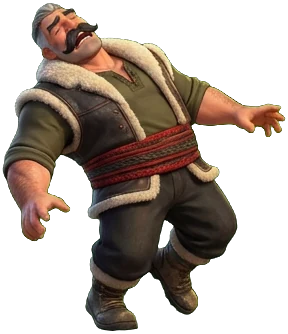
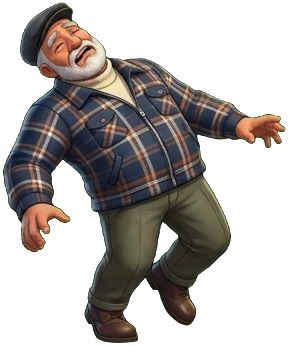
MUSA: Kürt Kemal nach Foto neu gezeichnet (Schiebermütze, Karohemd), Gedenkzeile
Claude-Session: https://claude.ai/code/session_01HmmbUMm2WsFfV26x7CUR19

diff --git a/spiel/musa.html b/spiel/musa.html
@@ -173,7 +173,7 @@ tr:{
  musa:["Çaycuma'nın kahramanı. Mahallede kim zor durumda kalsa ilk koşan odur. Koca yüreği, kocaman yumrukları ve yanından hiç ayrılmayan sevimli pandasıyla meydanı Kara Fırtına'ya karşı korur.","Panda Dalgası blokla durdurulamaz – ve Musa'nın canını 15 doldurur. Bu güç sadece kahramanda var!"],
  cevat:["Ailenin büyüklerinden, herkesin saygı duyduğu Hoca. Sakin görünür ama dua okumaya başladığında meydanı altın bir ışık kaplar. Tecrübesi en büyük silahıdır.","'Sübhanallah! Allahu Ekber!' – ışık küresi rakibi uzun süre sersemletir, kafası döner, yıldızlar uçuşur."],
  dursun:["Timur'un büyük babası, ailenin dev dedesi. Yaşına bakmayın: yere bir vurdu mu bütün Çaycuma sallanır. Yavaştır ama vuruşları en ağır olandır.","Dede Depremi: yerden kayalar fırlatır. Zıplayan rakibe işlemez – ama yerdekini fena sarsar."],
- kemal:["Musa amcanın babası, dağların aslanı. Sert, inatçı ve çok güçlü. Bir kere hızlandı mı önünde kimse duramaz.","Dağ Yumruğu: rakibin üstüne fırtına gibi atılır, tek darbede büyük hasar verir."],
+ kemal:["Namı değer Kürt Kemal – Musa amcanın babası, köyün sevilen büyüğü. Güler yüzlü, tatlı dilli ama dağ gibi güçlü; bir kere hızlandı mı önünde kimse duramaz. Rahmetli Kemal amcanın hatırasına. 🤲","Dağ Yumruğu: rakibin üstüne fırtına gibi atılır, tek darbede büyük hasar verir."],
  mevlut:["Affan ve Abdullah'ın babası. Kafası kel ama demir gibi sert – kafa atışından kimse kaçamaz. Sakin adamdır, sinirlenince dikkat!","Demir Kafa: havaya sıçrayıp kafasıyla rakibe dalar."],
  timur:["Ailenin teknoloji ustası. Yanında uçan robotu Jarvis, kolunda neon ışıklar. Kaba kuvvet yerine aklını kullanır – ve kimsede olmayan bir gücü var.","Jarvis: Zaman Durdur – rakip donar ve maviye kesilir, Timur o sırada lazerle vurur. Bu güç sadece Timur'da var!"],
  nazif:["Çaycuma'nın en usta avcısı. Sadık av köpeği hep yanında, yayı hep hazır. Sabırlıdır, avını kollar ve doğru anda tuzağı kurar.","Av Tuzağı: fırlattığı ağ rakibi yakalar, rakip bir süre kıpırdayamaz."],
@@ -186,7 +186,7 @@ de:{
  musa:["Der Held von Çaycuma. Wenn jemand in Not ist, ist er als Erster da. Mit großem Herz, großen Fäusten und seinem treuen Panda beschützt er den Marktplatz vor Kara Fırtına.","Die Panda-Welle kann nicht geblockt werden – und heilt Musa um 15. Diese Kraft hat nur der Held!"],
  cevat:["Der weise Hoca der Familie, von allen respektiert. Er wirkt ruhig, doch wenn er betet, erfüllt goldenes Licht den Platz. Erfahrung ist seine stärkste Waffe.","'Sübhanallah! Allahu Ekber!' – die Lichtkugel macht den Gegner lange benommen, Sterne kreisen um seinen Kopf."],
  dursun:["Timurs Großvater, der Riesen-Opa der Familie. Lass dich vom Alter nicht täuschen: Schlägt er auf den Boden, bebt ganz Çaycuma. Langsam, aber mit den härtesten Schlägen.","Opa-Beben: schleudert Felsen über den Boden. Trifft keine springenden Gegner – aber alle am Boden."],
- kemal:["Der Vater von Onkel Musa, der Löwe der Berge. Hart, stur und sehr stark. Wenn er einmal Anlauf nimmt, hält ihn niemand auf.","Bergfaust: stürmt wie ein Orkan auf den Gegner zu, riesiger Schaden mit einem Schlag."],
+ kemal:["Genannt Kürt Kemal – der Vater von Onkel Musa, der beliebte Älteste des Dorfes. Immer ein Lächeln im Gesicht, aber stark wie ein Berg; wenn er einmal Anlauf nimmt, hält ihn niemand auf. In liebevoller Erinnerung an Onkel Kemal. 🤲","Bergfaust: stürmt wie ein Orkan auf den Gegner zu, riesiger Schaden mit einem Schlag."],
  mevlut:["Vater von Affan und Abdullah. Glatze, aber hart wie Eisen – seinem Kopfstoß entkommt keiner. Ein ruhiger Mann – aber Vorsicht, wenn er wütend wird!","Eisenschädel: springt hoch und rammt den Gegner mit dem Kopf."],
  timur:["Der Technik-Meister der Familie. Neben ihm schwebt sein Roboter Jarvis, an den Armen leuchten Neonlichter. Er nutzt Köpfchen statt Muskeln – und hat eine Kraft, die sonst niemand hat.","Jarvis-Zeitstopp: der Gegner erstarrt und wird blau, Timur trifft ihn mit dem Laser. Diese Kraft hat nur Timur!"],
  nazif:["Der beste Jäger von Çaycuma. Sein treuer Jagdhund ist immer dabei, der Bogen immer bereit. Er ist geduldig, beobachtet seine Beute und stellt im richtigen Moment die Falle.","Jagdnetz: das Netz fängt den Gegner, der sich eine Weile nicht bewegen kann."],
@@ -199,7 +199,7 @@ en:{
  musa:["The hero of Çaycuma. Whenever someone is in trouble, he is the first to run in. With a big heart, big fists and his loyal panda, he protects the town square from Kara Fırtına.","The Panda Wave can't be blocked – and heals Musa by 15. Only the hero has this power!"],
  cevat:["The family's wise Hoca, respected by everyone. He looks calm, but when he starts to pray, golden light fills the square. Experience is his strongest weapon.","'Sübhanallah! Allahu Ekber!' – the orb of light leaves the rival dizzy for a long time, stars spinning around his head."],
  dursun:["Timur's grandfather, the family's giant grandpa. Don't be fooled by his age: when he hits the ground, all of Çaycuma shakes. Slow, but with the heaviest blows.","Grandpa Quake: sends rocks along the ground. Misses jumping rivals – but rocks anyone standing."],
- kemal:["Uncle Musa's father, the lion of the mountains. Tough, stubborn and very strong. Once he gets going, nobody can stop him.","Mountain Fist: charges at the rival like a storm, huge damage in one hit."],
+ kemal:["Known as Kürt Kemal – Uncle Musa's father, the village's beloved elder. Always smiling, but strong as a mountain; once he gets going, nobody can stop him. In loving memory of Uncle Kemal. 🤲","Mountain Fist: charges at the rival like a storm, huge damage in one hit."],
  mevlut:["Father of Affan and Abdullah. Bald, but hard as iron – nobody escapes his headbutt. A calm man – but watch out when he gets angry!","Iron Head: leaps up and rams the rival head first."],
  timur:["The family's tech master. His flying robot Jarvis hovers beside him, neon lights glow on his arms. He uses brains instead of brawn – and has a power nobody else has.","Jarvis Time Stop: the rival freezes and turns blue while Timur blasts him with the laser. Only Timur has this power!"],
  nazif:["The best hunter in Çaycuma. His loyal hunting dog is always by his side, his bow always ready. Patient, he watches his prey and sets the trap at the perfect moment.","Hunter's Net: the net catches the rival, who can't move for a while."],
@@ -469,7 +469,7 @@ function prog(f){
  if(t<=a.start)return t/a.start;if(t<=a.start+a.active)return 1;return Math.max(0,1-(t-a.start-a.active)/a.rec);
 }
 
-const META={"musa":{"idle":{"w":266,"h":342,"ax":115.0},"walk":{"w":251,"h":345,"ax":116.0},"punch":{"w":332,"h":339,"ax":141.0},"kick":{"w":311,"h":343,"ax":132.0},"block":{"w":231,"h":342,"ax":107.0},"hit":{"w":290,"h":342,"ax":124.0},"special":{"w":374,"h":345,"ax":158.0},"win":{"w":230,"h":380,"ax":94.0},"head":[84,1,88,88]},"storm":{"idle":{"w":247,"h":360,"ax":104.0},"walk":{"w":217,"h":373,"ax":97.0},"punch":{"w":305,"h":365,"ax":108.0},"kick":{"w":306,"h":357,"ax":128.0},"block":{"w":204,"h":361,"ax":87.0},"hit":{"w":212,"h":357,"ax":99.0},"special":{"w":323,"h":360,"ax":90.0},"win":{"w":141,"h":379,"ax":74.0},"head":[97,0,93,93]},"fx":{"panda":{"w":308,"h":244,"ax":158.5},"wave":{"w":253,"h":259,"ax":59.0},"bolt":{"w":285,"h":124,"ax":150.0},"cloud":{"w":212,"h":177,"ax":106.0},"orb":{"w":276,"h":180,"ax":144.0},"laser":{"w":282,"h":75,"ax":148.0},"glass":{"w":227,"h":145,"ax":122.0},"rocks":{"w":297,"h":240,"ax":144.0}},"cevat":{"idle":{"w":276,"h":346,"ax":112.0},"walk":{"w":256,"h":345,"ax":121.0},"punch":{"w":356,"h":341,"ax":131.0},"kick":{"w":307,"h":343,"ax":138.0},"block":{"w":308,"h":344,"ax":121.0},"hit":{"w":280,"h":340,"ax":118.0},"special":{"w":381,"h":337,"ax":113.0},"win":{"w":239,"h":386,"ax":113.0},"head":[77,3,89,89]},"mevlut":{"idle":{"w":263,"h":332,"ax":115.0},"walk":{"w":248,"h":337,"ax":118.0},"punch":{"w":321,"h":331,"ax":142.0},"kick":{"w":310,"h":335,"ax":131.0},"block":{"w":229,"h":335,"ax":107.0},"hit":{"w":287,"h":329,"ax":126.0},"special":{"w":362,"h":227,"ax":191.0},"win":{"w":222,"h":381,"ax":92.0},"head":[82,0,86,86]},"dursun":{"idle":{"w":273,"h":358,"ax":105.0},"walk":{"w":280,"h":340,"ax":142.0},"punch":{"w":323,"h":334,"ax":135.0},"kick":{"w":313,"h":338,"ax":160.0},"block":{"w":287,"h":349,"ax":131.0},"hit":{"w":280,"h":338,"ax":135.0},"special":{"w":387,"h":322,"ax":143.0},"win":{"w":290,"h":371,"ax":189.0},"head":[93,18,93,93]},"kemal":{"idle":{"w":268,"h":334,"ax":114.0},"walk":{"w":246,"h":343,"ax":118.0},"punch":{"w":330,"h":334,"ax":143.0},"kick":{"w":313,"h":338,"ax":134.0},"block":{"w":250,"h":336,"ax":110.0},"hit":{"w":288,"h":334,"ax":124.0},"special":{"w":377,"h":319,"ax":143.0},"win":{"w":191,"h":351,"ax":94.0},"head":[80,0,86,86]},"nazif":{"idle":{"w":298,"h":342,"ax":111.0},"walk":{"w":288,"h":342,"ax":109.0},"punch":{"w":326,"h":364,"ax":169.0},"kick":{"w":314,"h":343,"ax":132.0},"block":{"w":295,"h":356,"ax":138.0},"hit":{"w":321,"h":341,"ax":141.0},"special":{"w":396,"h":344,"ax":162.0},"win":{"w":258,"h":390,"ax":110.0},"head":[92,4,88,88]},"timur":{"idle":{"w":192,"h":344,"ax":82.0},"walk":{"w":167,"h":351,"ax":84.0},"punch":{"w":315,"h":343,"ax":102.0},"kick":{"w":270,"h":334,"ax":98.0},"block":{"w":260,"h":345,"ax":94.0},"hit":{"w":251,"h":327,"ax":96.0},"special":{"w":422,"h":347,"ax":82.0},"win":{"w":202,"h":355,"ax":77.0},"head":[62,2,90,90]},"abdullah":{"idle":{"w":198,"h":337,"ax":91.0},"walk":{"w":268,"h":330,"ax":145.0},"punch":{"w":287,"h":337,"ax":106.0},"kick":{"w":309,"h":342,"ax":107.0},"block":{"w":176,"h":342,"ax":75.0},"hit":{"w":251,"h":331,"ax":100.0},"special":{"w":324,"h":331,"ax":129.0},"win":{"w":186,"h":375,"ax":88.0},"head":[62,0,90,90]},"yusuf":{"idle":{"w":266,"h":342,"ax":113.0},"walk":{"w":239,"h":347,"ax":118.0},"punch":{"w":368,"h":338,"ax":135.0},"kick":{"w":307,"h":346,"ax":133.0},"block":{"w":226,"h":346,"ax":103.0},"hit":{"w":287,"h":341,"ax":125.0},"special":{"w":380,"h":333,"ax":159.0},"win":{"w":320,"h":350,"ax":194.0},"head":[83,0,92,92]},"soner":{"idle":{"w":143,"h":358,"ax":79.0},"walk":{"w":183,"h":354,"ax":87.0},"punch":{"w":303,"h":345,"ax":117.0},"kick":{"w":264,"h":352,"ax":99.0},"block":{"w":165,"h":350,"ax":76.0},"hit":{"w":230,"h":346,"ax":101.0},"special":{"w":346,"h":350,"ax":118.0},"win":{"w":183,"h":360,"ax":117.0},"head":[35,0,89,89]},"sinasi":{"idle":{"w":211,"h":355,"ax":81.0},"walk":{"w":157,"h":359,"ax":68.0},"punch":{"w":357,"h":344,"ax":109.0},"kick":{"w":296,"h":353,"ax":105.5},"block":{"w":240,"h":347,"ax":91.0},"hit":{"w":256,"h":346,"ax":138.0},"special":{"w":368,"h":346,"ax":94.0},"win":{"w":113,"h":355,"ax":55.0},"head":[62,2,86,86]}};
+const META={"musa":{"idle":{"w":266,"h":342,"ax":115.0},"walk":{"w":251,"h":345,"ax":116.0},"punch":{"w":332,"h":339,"ax":141.0},"kick":{"w":311,"h":343,"ax":132.0},"block":{"w":231,"h":342,"ax":107.0},"hit":{"w":290,"h":342,"ax":124.0},"special":{"w":374,"h":345,"ax":158.0},"win":{"w":230,"h":380,"ax":94.0},"head":[84,1,88,88]},"storm":{"idle":{"w":247,"h":360,"ax":104.0},"walk":{"w":217,"h":373,"ax":97.0},"punch":{"w":305,"h":365,"ax":108.0},"kick":{"w":306,"h":357,"ax":128.0},"block":{"w":204,"h":361,"ax":87.0},"hit":{"w":212,"h":357,"ax":99.0},"special":{"w":323,"h":360,"ax":90.0},"win":{"w":141,"h":379,"ax":74.0},"head":[97,0,93,93]},"fx":{"panda":{"w":308,"h":244,"ax":158.5},"wave":{"w":253,"h":259,"ax":59.0},"bolt":{"w":285,"h":124,"ax":150.0},"cloud":{"w":212,"h":177,"ax":106.0},"orb":{"w":276,"h":180,"ax":144.0},"laser":{"w":282,"h":75,"ax":148.0},"glass":{"w":227,"h":145,"ax":122.0},"rocks":{"w":297,"h":240,"ax":144.0}},"cevat":{"idle":{"w":276,"h":346,"ax":112.0},"walk":{"w":256,"h":345,"ax":121.0},"punch":{"w":356,"h":341,"ax":131.0},"kick":{"w":307,"h":343,"ax":138.0},"block":{"w":308,"h":344,"ax":121.0},"hit":{"w":280,"h":340,"ax":118.0},"special":{"w":381,"h":337,"ax":113.0},"win":{"w":239,"h":386,"ax":113.0},"head":[77,3,89,89]},"mevlut":{"idle":{"w":263,"h":332,"ax":115.0},"walk":{"w":248,"h":337,"ax":118.0},"punch":{"w":321,"h":331,"ax":142.0},"kick":{"w":310,"h":335,"ax":131.0},"block":{"w":229,"h":335,"ax":107.0},"hit":{"w":287,"h":329,"ax":126.0},"special":{"w":362,"h":227,"ax":191.0},"win":{"w":222,"h":381,"ax":92.0},"head":[82,0,86,86]},"dursun":{"idle":{"w":273,"h":358,"ax":105.0},"walk":{"w":280,"h":340,"ax":142.0},"punch":{"w":323,"h":334,"ax":135.0},"kick":{"w":313,"h":338,"ax":160.0},"block":{"w":287,"h":349,"ax":131.0},"hit":{"w":280,"h":338,"ax":135.0},"special":{"w":387,"h":322,"ax":143.0},"win":{"w":290,"h":371,"ax":189.0},"head":[93,18,93,93]},"kemal":{"idle":{"w":260,"h":345,"ax":113.0},"walk":{"w":225,"h":348,"ax":108.0},"punch":{"w":322,"h":342,"ax":142.0},"kick":{"w":309,"h":346,"ax":133.0},"block":{"w":232,"h":346,"ax":105.0},"hit":{"w":288,"h":346,"ax":120.0},"special":{"w":434,"h":334,"ax":221.0},"win":{"w":209,"h":380,"ax":85.0},"head":[99,2,90,90]},"nazif":{"idle":{"w":298,"h":342,"ax":111.0},"walk":{"w":288,"h":342,"ax":109.0},"punch":{"w":326,"h":364,"ax":169.0},"kick":{"w":314,"h":343,"ax":132.0},"block":{"w":295,"h":356,"ax":138.0},"hit":{"w":321,"h":341,"ax":141.0},"special":{"w":396,"h":344,"ax":162.0},"win":{"w":258,"h":390,"ax":110.0},"head":[92,4,88,88]},"timur":{"idle":{"w":192,"h":344,"ax":82.0},"walk":{"w":167,"h":351,"ax":84.0},"punch":{"w":315,"h":343,"ax":102.0},"kick":{"w":270,"h":334,"ax":98.0},"block":{"w":260,"h":345,"ax":94.0},"hit":{"w":251,"h":327,"ax":96.0},"special":{"w":422,"h":347,"ax":82.0},"win":{"w":202,"h":355,"ax":77.0},"head":[62,2,90,90]},"abdullah":{"idle":{"w":198,"h":337,"ax":91.0},"walk":{"w":268,"h":330,"ax":145.0},"punch":{"w":287,"h":337,"ax":106.0},"kick":{"w":309,"h":342,"ax":107.0},"block":{"w":176,"h":342,"ax":75.0},"hit":{"w":251,"h":331,"ax":100.0},"special":{"w":324,"h":331,"ax":129.0},"win":{"w":186,"h":375,"ax":88.0},"head":[62,0,90,90]},"yusuf":{"idle":{"w":266,"h":342,"ax":113.0},"walk":{"w":239,"h":347,"ax":118.0},"punch":{"w":368,"h":338,"ax":135.0},"kick":{"w":307,"h":346,"ax":133.0},"block":{"w":226,"h":346,"ax":103.0},"hit":{"w":287,"h":341,"ax":125.0},"special":{"w":380,"h":333,"ax":159.0},"win":{"w":320,"h":350,"ax":194.0},"head":[83,0,92,92]},"soner":{"idle":{"w":143,"h":358,"ax":79.0},"walk":{"w":183,"h":354,"ax":87.0},"punch":{"w":303,"h":345,"ax":117.0},"kick":{"w":264,"h":352,"ax":99.0},"block":{"w":165,"h":350,"ax":76.0},"hit":{"w":230,"h":346,"ax":101.0},"special":{"w":346,"h":350,"ax":118.0},"win":{"w":183,"h":360,"ax":117.0},"head":[35,0,89,89]},"sinasi":{"idle":{"w":211,"h":355,"ax":81.0},"walk":{"w":157,"h":359,"ax":68.0},"punch":{"w":357,"h":344,"ax":109.0},"kick":{"w":296,"h":353,"ax":105.5},"block":{"w":240,"h":347,"ax":91.0},"hit":{"w":256,"h":346,"ax":138.0},"special":{"w":368,"h":346,"ax":94.0},"win":{"w":113,"h":355,"ax":55.0},"head":[62,2,86,86]}};
 const IMG={};const BGS=['bg_meydan','bg_filyos','bg_meydan2'];
 function li(n,src){const i=new Image();i.decoding='async';i.src='musa/'+src;IMG[n]=i;return i}
 for(const ch of ROSTER.map(r=>r.kind))for(const p of ['idle','walk','punch','kick','block','hit','special','win'])li(ch+'_'+p,ch+'_'+p+'.webp');

diff --git a/spiel/index.html b/spiel/index.html
@@ -237,7 +237,7 @@ play:'<svg class="bi" viewBox="0 0 24 24"><path d="M7 4.8v14.4a1 1 0 0 0 1.5.9l1
     $('shr').onclick=e=>{ if (navigator.share && !inApp){ e.preventDefault(); navigator.share({text:t.shareText}).catch(()=>{}); } };
   }
   if(location.protocol==='file:'){$('g1453').href='https://xenosmart.de/spiel/1453/';$('gzip').href='https://xenosmart.de/spiel/zipzip/';}
-  function offDone(){try{return localStorage.getItem('bukoOffline')==='buko-v15'}catch(e){return false}}
+  function offDone(){try{return localStorage.getItem('bukoOffline')==='buko-v16'}catch(e){return false}}
   async function saveOffline(t){const b=$('offB');if(!b||b.disabled)return;b.disabled=true;
    try{const lst=await (await fetch('offline-files.json',{cache:'no-store'})).json();const c=await caches.open(lst.v);let n=0,bad=0;
     for(const f of lst.files){try{const r=await fetch(f,{cache:'reload'});if(r.ok)await c.put(new Request(new URL(f,location.href).href),r);else bad++}catch(e){bad++}n++;b.textContent=t.offP(Math.round(n/lst.files.length*100))}

diff --git a/spiel/sw.js b/spiel/sw.js
@@ -1,5 +1,5 @@
 /* Buko Games – offline cache (network-first, cache fallback) */
-const C='buko-v15';
+const C='buko-v16';
 const BASE=['./','index.html','offline-files.json','manifest.webmanifest','icon-192.png','buko-core.js','buko-ui.js','buko.svg','buko.webp','buko-mini.webp'];
 self.addEventListener('install',e=>{e.waitUntil(caches.open(C).then(c=>Promise.all(BASE.map(u=>c.add(u).catch(()=>{})))).then(()=>self.skipWaiting()))});
 self.addEventListener('activate',e=>{e.waitUntil(caches.keys().then(ks=>Promise.all(ks.filter(k=>k.startsWith('buko-')&&k!==C).map(k=>caches.delete(k)))).then(()=>self.clients.claim()))});
